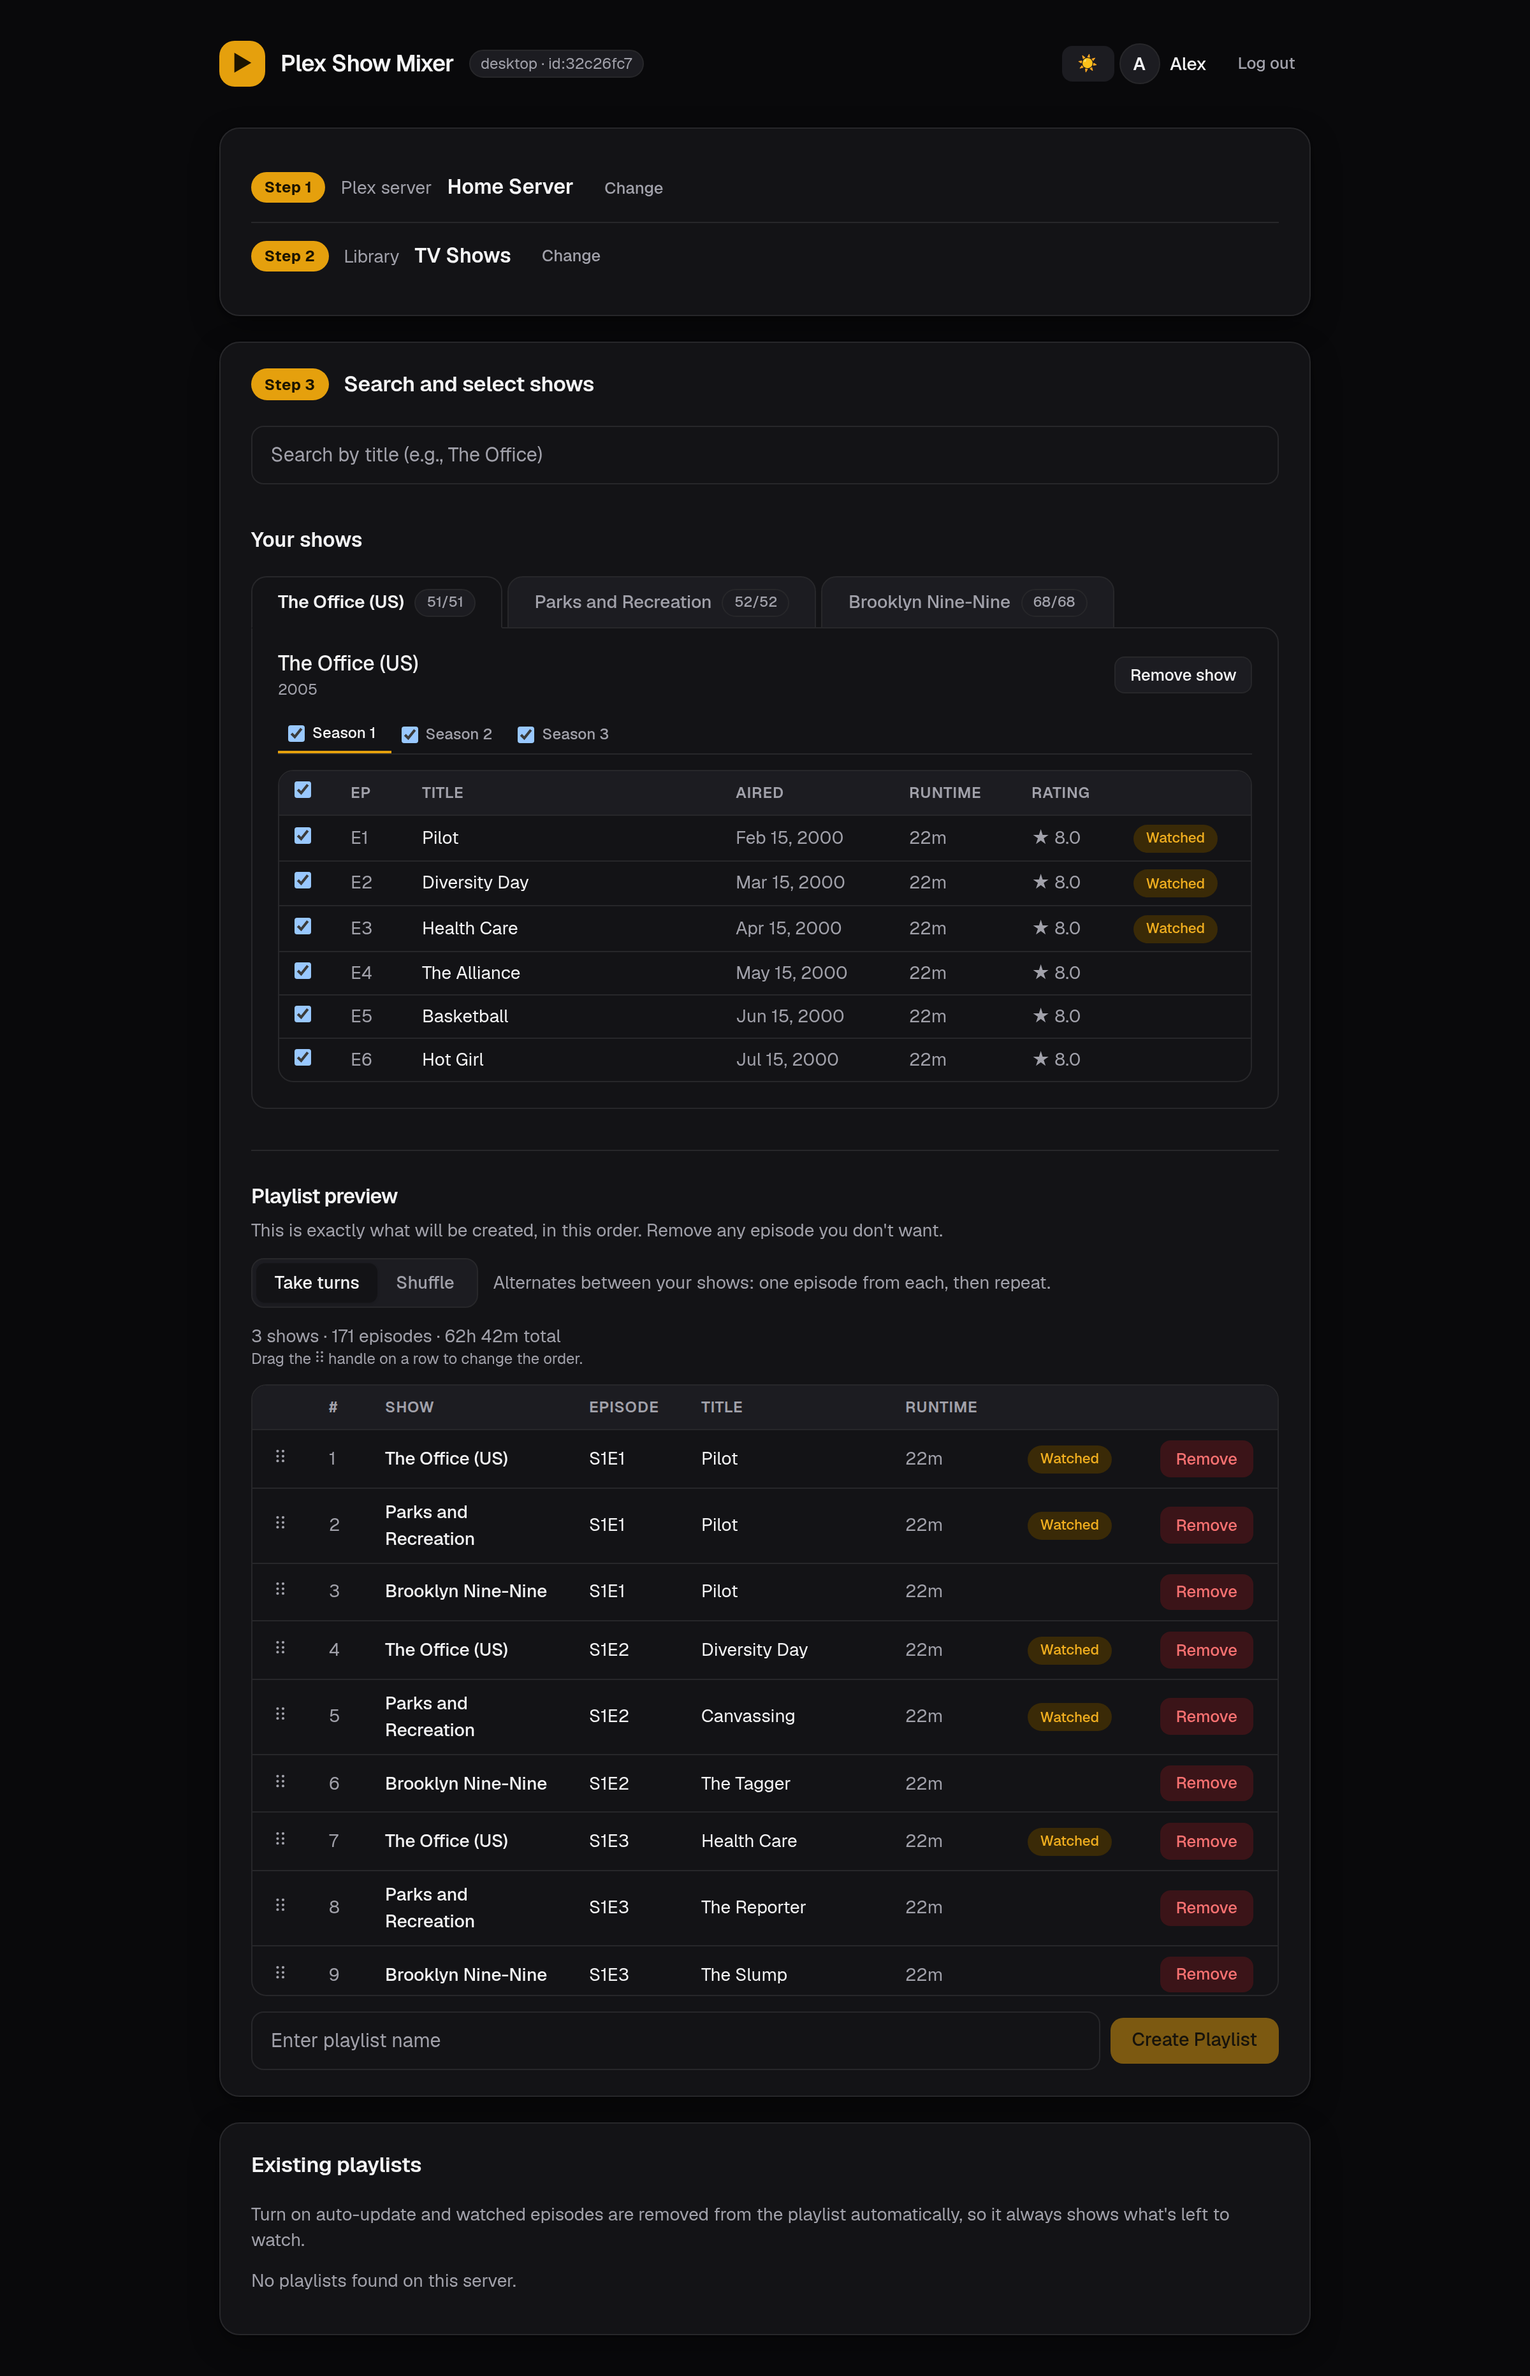
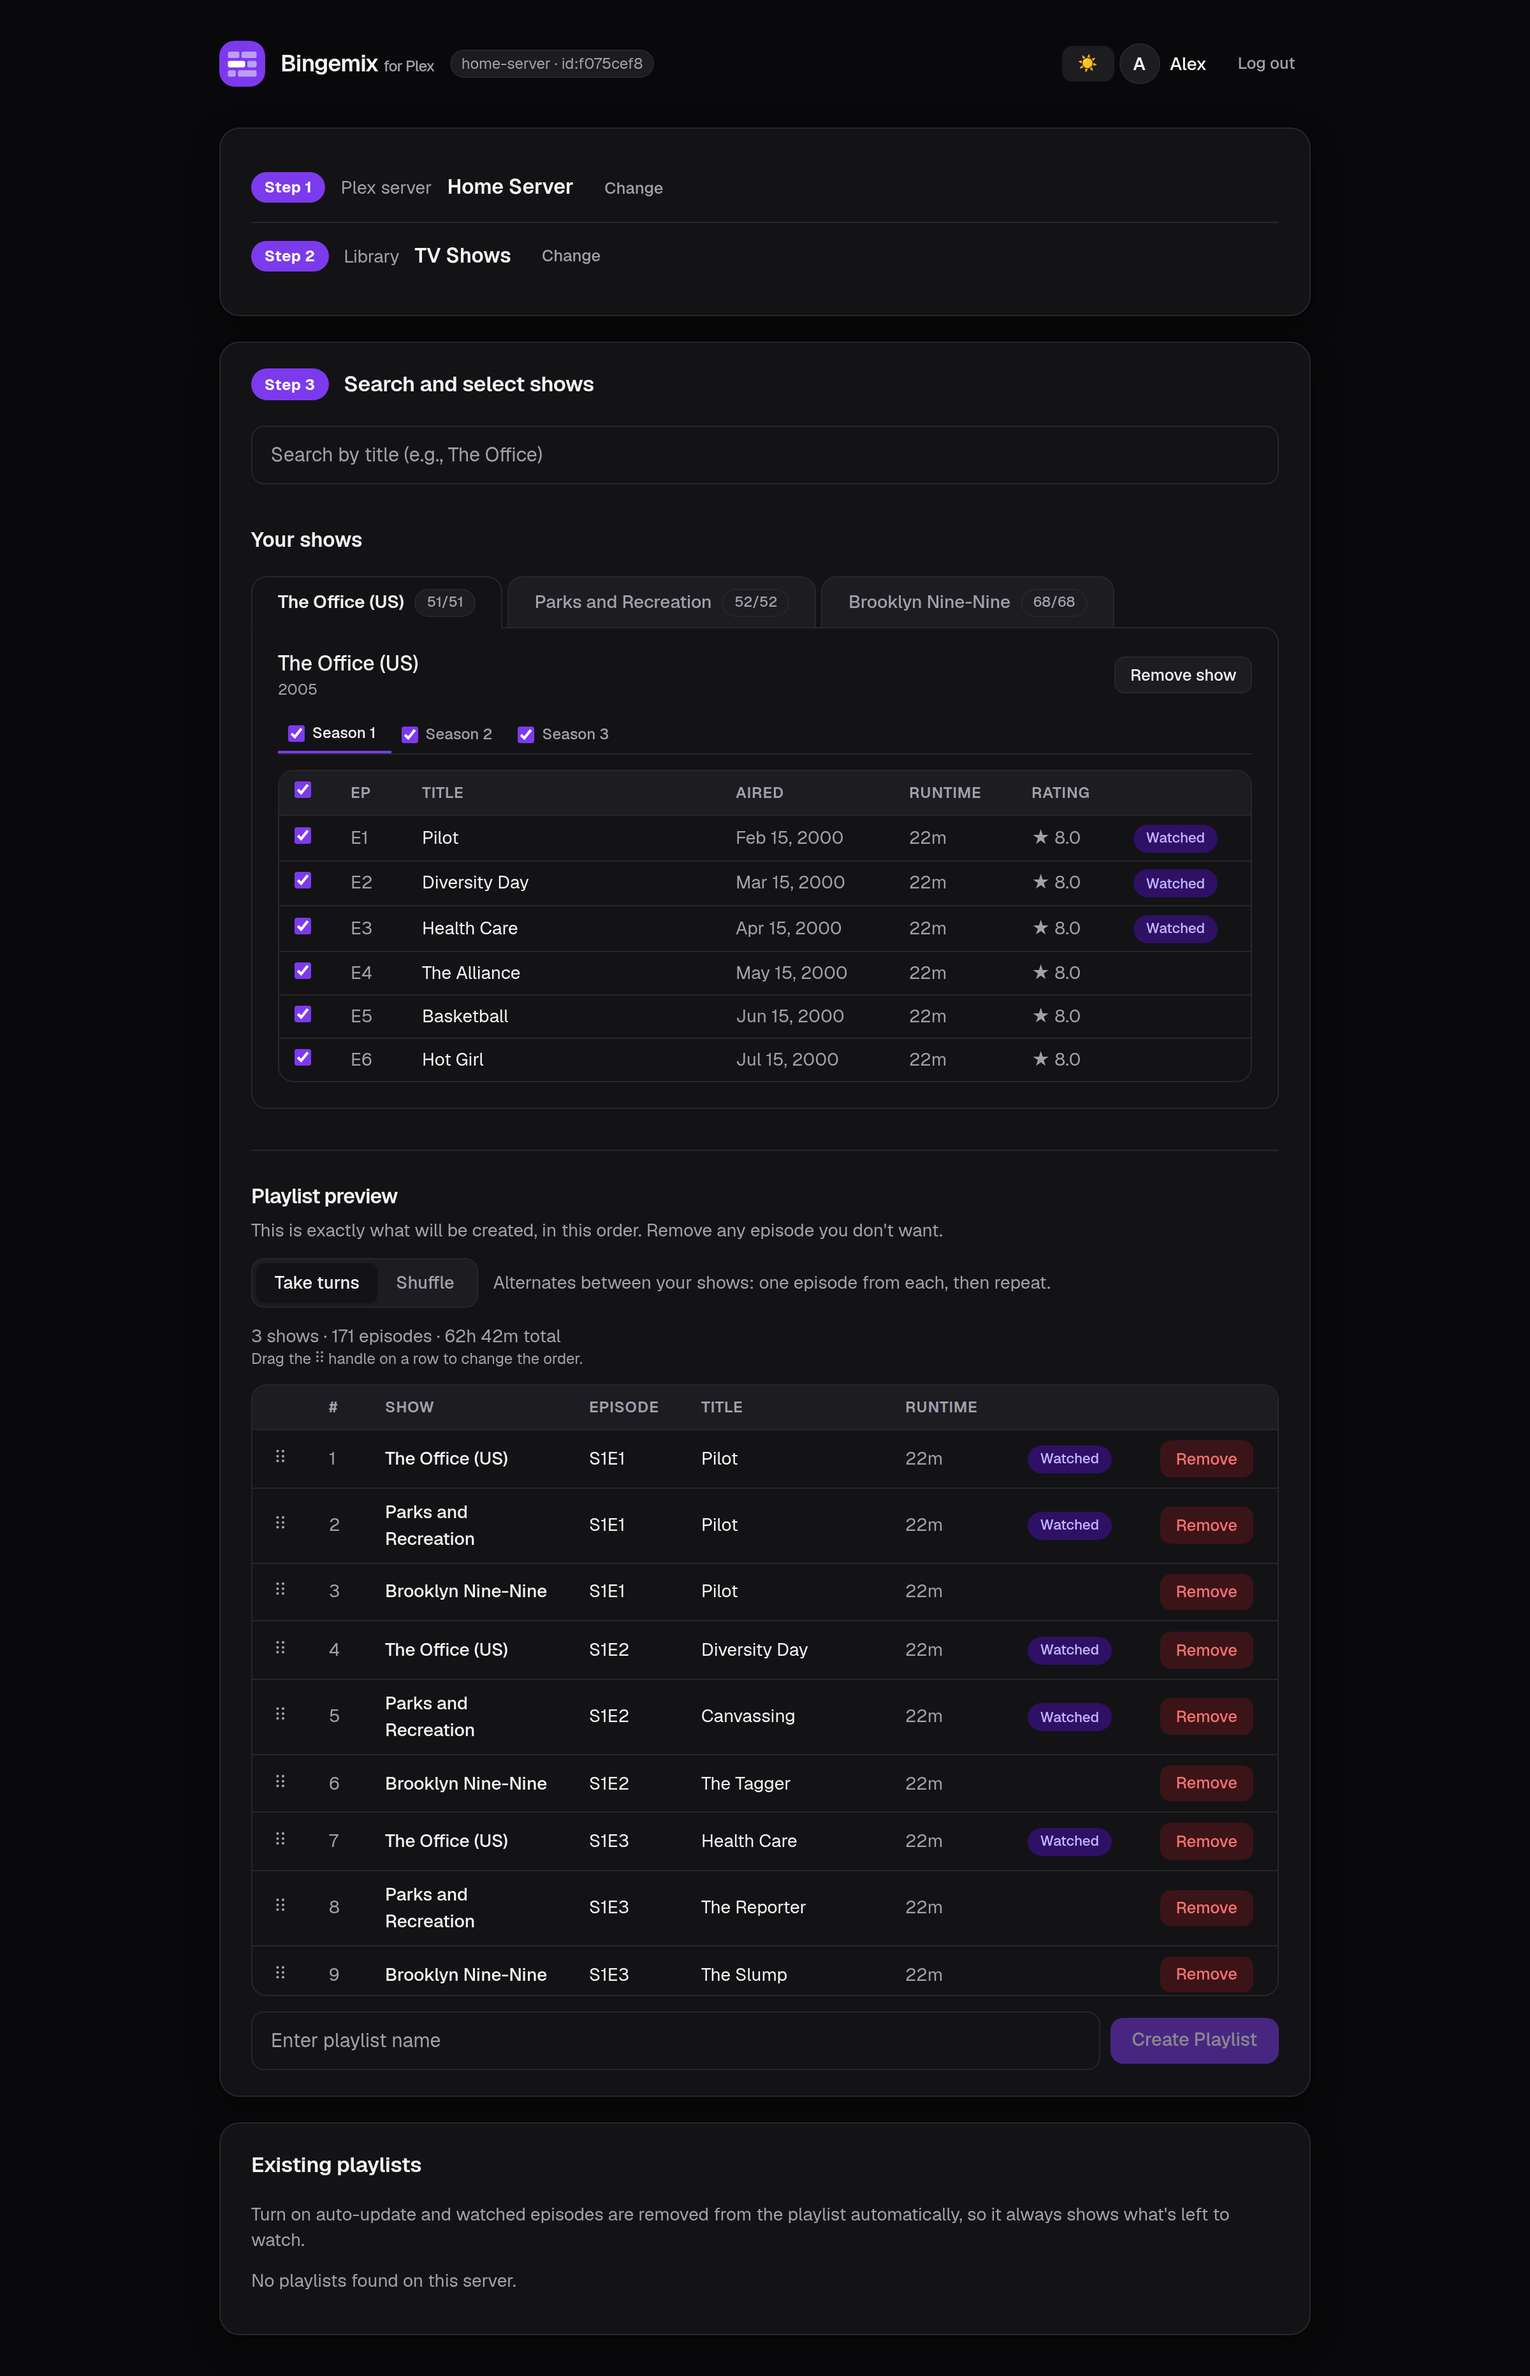
docs: rewrite README and website for Bingemix
- New name, headline ("Multiple shows. One playlist.") and subtitle
- Violet palette and program-grid icon on the website
- Regenerated screenshots from the renamed app
- Image and repo links point to gurjaps/bingemix and GurjapSingh/bingemix
- "Renamed from Plex Show Mixer" upgrade note
- Independent-project / Plex trademark notice

diff --git a/docs/index.html b/docs/index.html
@@ -3,11 +3,11 @@
 <head>
 <meta charset="utf-8">
 <meta name="viewport" content="width=device-width, initial-scale=1">
-<title>Plex Show Mixer: mixed-show Plex playlists that stay fresh</title>
-<meta name="description" content="Build Plex playlists that mix episodes from several TV shows, and keep them fresh: watched episodes are removed automatically. Self-hosted, runs in Docker.">
+<title>Bingemix for Plex: multiple shows, one playlist</title>
+<meta name="description" content="Interleave or shuffle your favourite shows into one auto-updating Plex playlist. Watched episodes drop out on their own. Self-hosted, runs in Docker.">
 <link rel="icon" href="icon.svg" type="image/svg+xml">
-<meta property="og:title" content="Plex Show Mixer">
-<meta property="og:description" content="Mix episodes from several TV shows into one Plex playlist. Watched episodes drop out automatically.">
+<meta property="og:title" content="Bingemix for Plex">
+<meta property="og:description" content="Multiple shows. One playlist. Interleave or shuffle your favourite shows into one auto-updating Plex playlist.">
 <meta property="og:image" content="screenshots/dashboard.png">
 <style>
 :root {
@@ -16,8 +16,9 @@
     --text: #17171a;
     --muted: #62626b;
     --border: #e2e2e7;
-    --accent: #e5a00d;
-    --accent-fg: #1c1400;
+    --accent: #7c3aed;
+    --accent-fg: #ffffff;
+    --accent-ink: #6d28d9;
     --code-bg: #14141a;
     --code-fg: #ececf1;
     --code-muted: #8b8b98;
@@ -25,6 +26,7 @@
 }
 @media (prefers-color-scheme: dark) {
     :root {
+        --accent-ink: #a78bfa;
         --bg: #0b0b0d;
         --card: #141417;
         --text: #f2f2f5;
@@ -51,6 +53,7 @@ a { color: inherit; }
 nav { display: flex; align-items: center; justify-content: space-between; padding: 20px 0; }
 .brand { display: flex; align-items: center; gap: 12px; font-weight: 700; text-decoration: none; }
 .brand img { width: 34px; height: 34px; }
+.brand .for { font-weight: 500; font-size: .8em; color: var(--muted); margin-left: -4px; }
 .nav-links { display: flex; gap: 22px; font-size: 15px; }
 .nav-links a { text-decoration: none; color: var(--muted); }
 .nav-links a:hover { color: var(--text); }
@@ -58,7 +61,7 @@ nav { display: flex; align-items: center; justify-content: space-between; paddin
 /* hero */
 .hero { text-align: center; padding: 56px 0 40px; }
 h1 { font-size: clamp(2.2rem, 6vw, 3.6rem); line-height: 1.1; letter-spacing: -.03em; margin: 0 0 18px; }
-h1 em { font-style: normal; color: var(--accent); }
+h1 em { font-style: normal; color: var(--accent-ink); }
 .lead { max-width: 640px; margin: 0 auto 30px; font-size: 1.2rem; color: var(--muted); }
 .btns { display: flex; gap: 12px; justify-content: center; flex-wrap: wrap; }
 .btn {
@@ -118,9 +121,8 @@ figcaption b { color: var(--text); }
 
 .tag {
     display: inline-block; font-size: .75rem; font-weight: 700; letter-spacing: .04em; text-transform: uppercase;
-    background: rgba(229,160,13,.15); color: #b27a00; padding: 2px 10px; border-radius: 999px; margin-left: 8px; vertical-align: middle;
+    background: rgba(124,58,237,.14); color: var(--accent-ink); padding: 2px 10px; border-radius: 999px; margin-left: 8px; vertical-align: middle;
 }
-@media (prefers-color-scheme: dark) { .tag { color: var(--accent); } }
 
 .code { position: relative; margin: 10px 0 0; }
 .code .label {
@@ -174,28 +176,29 @@ footer a { color: var(--text); }
 
 <div class="wrap">
     <nav>
-        <a class="brand" href="#top"><img src="icon.svg" alt="">Plex Show Mixer</a>
+        <a class="brand" href="#top"><img src="icon.svg" alt="">Bingemix <span class="for">for Plex</span></a>
         <div class="nav-links">
             <a href="#features">Features</a>
             <a href="#get-started">Get started</a>
-            <a href="https://github.com/GurjapSingh/plex-show-mixer">GitHub</a>
+            <a href="https://github.com/GurjapSingh/bingemix">GitHub</a>
         </div>
     </nav>
 
     <header class="hero" id="top">
-        <h1>Mix your shows.<br><em>Keep the playlist fresh.</em></h1>
+        <h1>Multiple shows.<br><em>One playlist.</em></h1>
         <p class="lead">
-            Build Plex playlists that mix episodes from several TV shows. Watched episodes
-            are removed automatically, so a playlist always shows what is left to watch.
+            Interleave or shuffle your favourite shows into one auto-updating playlist.
+            Take turns between shows, one episode each, or shuffle them. Watched
+            episodes drop out on their own.
         </p>
         <div class="btns">
             <a class="btn primary" href="#get-started">Get started</a>
-            <a class="btn" href="https://github.com/GurjapSingh/plex-show-mixer">View on GitHub</a>
+            <a class="btn" href="https://github.com/GurjapSingh/bingemix">View on GitHub</a>
         </div>
         <div class="shot">
             <picture>
                 <source media="(prefers-color-scheme: dark)" srcset="screenshots/dashboard-dark.png">
-                <img src="screenshots/dashboard.png" alt="Plex Show Mixer showing selected shows and a mixed playlist preview">
+                <img src="screenshots/dashboard.png" alt="Bingemix showing selected shows and a mixed playlist preview">
             </picture>
         </div>
     </header>
@@ -239,12 +242,12 @@ footer a { color: var(--text); }
             <p class="sub" style="margin-bottom:0">No files to write. Run it in the folder where you want the app's files kept; the <code class="i">data</code> and <code class="i">secrets</code> folders are created there for you.</p>
             <div class="code">
                 <div class="label"><span>terminal</span><button class="copy" type="button">Copy</button></div>
-<pre>docker run -d --name plex-show-mixer \
+<pre>docker run -d --name bingemix \
   -p 6767:6767 \
   -v ./data:/app/data \
   -v ./secrets:/app/secrets \
   --restart unless-stopped \
-  gurjaps/plex-show-mixer:latest</pre>
+  gurjaps/bingemix:latest</pre>
             </div>
         </div>
 
@@ -254,9 +257,9 @@ footer a { color: var(--text); }
             <div class="code">
                 <div class="label"><span>docker-compose.yml</span><button class="copy" type="button">Copy</button></div>
 <pre>services:
-  plex-show-mixer:
-    image: gurjaps/plex-show-mixer:latest
-    container_name: plex-show-mixer
+  bingemix:
+    image: gurjaps/bingemix:latest
+    container_name: bingemix
     ports:
       - "6767:6767"
     volumes:
@@ -314,13 +317,13 @@ footer a { color: var(--text); }
 <pre>mkdir -p keys
 openssl rand -base64 32 &gt; keys/token_key
 
-docker run -d --name plex-show-mixer \
+docker run -d --name bingemix \
   -p 6767:6767 \
   -v ./data:/app/data \
   -v ./keys/token_key:/run/secrets/token_key:ro \
   -e TOKEN_ENCRYPTION_KEY_FILE=/run/secrets/token_key \
   --restart unless-stopped \
-  gurjaps/plex-show-mixer:latest</pre>
+  gurjaps/bingemix:latest</pre>
         </div>
         <p class="sub" style="margin-top:14px">Create the key file <i>before</i> starting: if it is missing, Docker makes an empty folder in its place and the app won't start. You can also pass the key itself as <code class="i">TOKEN_ENCRYPTION_KEY</code>.</p>
     </div>
@@ -349,11 +352,11 @@ docker run -d --name plex-show-mixer \
 
 <footer>
     <div class="wrap">
-        <p>Plex Show Mixer is an independent project and is not affiliated with Plex Inc.</p>
+        <p>Bingemix is an independent project. It is not affiliated with, endorsed by, or sponsored by Plex Inc. Plex is a trademark of Plex, Inc.</p>
         <p>
-            <a href="https://github.com/GurjapSingh/plex-show-mixer">GitHub</a> ·
-            <a href="https://hub.docker.com/r/gurjaps/plex-show-mixer">Docker Hub</a> ·
-            <a href="https://github.com/GurjapSingh/plex-show-mixer/issues">Report an issue</a>
+            <a href="https://github.com/GurjapSingh/bingemix">GitHub</a> ·
+            <a href="https://hub.docker.com/r/gurjaps/bingemix">Docker Hub</a> ·
+            <a href="https://github.com/GurjapSingh/bingemix/issues">Report an issue</a>
         </p>
     </div>
 </footer>

diff --git a/README.md b/README.md
@@ -1,20 +1,22 @@
 <div align="center">
 
-<img src="src/app/icon.svg" alt="" width="84" height="84">
+<img src="src/app/icon.svg" alt="Bingemix" width="84" height="84">
 
-# Plex Show Mixer
+# Bingemix <sub>for Plex</sub>
 
-**Build Plex playlists that mix episodes from several TV shows, and keep them
-fresh.** Watched episodes are removed automatically, so a playlist always shows
-what is left to watch.
+**Multiple shows. One playlist.**
 
-[![Docker Image Version](https://img.shields.io/docker/v/gurjaps/plex-show-mixer?sort=semver&logo=docker&label=docker&color=e5a00d)](https://hub.docker.com/r/gurjaps/plex-show-mixer)
-[![Docker Pulls](https://img.shields.io/docker/pulls/gurjaps/plex-show-mixer?logo=docker&color=e5a00d)](https://hub.docker.com/r/gurjaps/plex-show-mixer)
+Interleave or shuffle your favourite shows into one auto-updating playlist.
+Take turns between shows, one episode each, or shuffle them. Watched episodes
+drop out on their own.
+
+[![Docker Image Version](https://img.shields.io/docker/v/gurjaps/bingemix?sort=semver&logo=docker&label=docker&color=7c3aed)](https://hub.docker.com/r/gurjaps/bingemix)
+[![Docker Pulls](https://img.shields.io/docker/pulls/gurjaps/bingemix?logo=docker&color=7c3aed)](https://hub.docker.com/r/gurjaps/bingemix)
 
 <a href="docs/screenshots/dashboard.png">
   <picture>
     <source media="(prefers-color-scheme: dark)" srcset="docs/screenshots/dashboard-dark.png">
-    <img src="docs/screenshots/dashboard.png" alt="Plex Show Mixer: pick shows, preview the mixed playlist, create it" width="760">
+    <img src="docs/screenshots/dashboard.png" alt="Bingemix: pick shows, preview the mixed playlist, create it" width="760">
   </picture>
 </a>
 
@@ -69,12 +71,12 @@ Light and dark themes are built in.
 ## Run with Docker
 
 ```bash
-docker run -d --name plex-show-mixer \
+docker run -d --name bingemix \
   -p 6767:6767 \
   -v ./data:/app/data \
   -v ./secrets:/app/secrets \
   --restart unless-stopped \
-  gurjaps/plex-show-mixer:latest
+  gurjaps/bingemix:latest
 ```
 
 Then open <http://localhost:6767>. The `data/` and `secrets/` folders are
@@ -91,9 +93,9 @@ Save this as `docker-compose.yml` anywhere; it just pulls the published image:
 
 ```yaml
 services:
-  plex-show-mixer:
-    image: gurjaps/plex-show-mixer:latest
-    container_name: plex-show-mixer
+  bingemix:
+    image: gurjaps/bingemix:latest
+    container_name: bingemix
     ports:
       - "6767:6767"
     volumes:
@@ -153,8 +155,19 @@ stored tokens cannot be read and people just sign in again.
   on a single server and can only contain that server's items.
 - If you run more than one copy of the app against the same Plex server, the
   app leaves a short note in the playlist description in Plex
-  (`Auto-updated by Plex Show Mixer (...)`) so other copies can warn you that a
-  playlist is already being updated elsewhere.
+  (`Auto-updated by Bingemix (...)`) so other copies can warn you that a
+  playlist is already being updated elsewhere. Copies from before the rename
+  wrote `Auto-updated by Plex Show Mixer (...)`; Bingemix still understands
+  those, but older releases do not understand the new wording, so upgrade every
+  copy that points at the same server together.
+
+## Renamed from Plex Show Mixer
+
+Bingemix was called Plex Show Mixer until version 1.2.3. The Docker image is now
+`gurjaps/bingemix`. To move over, stop the old container and start the new one
+with the **same** `data/` folder (and `secrets/` if you have one; older installs
+keep their key inside `data/`). Your playlists, auto-update settings and
+encryption key carry over, and nobody has to sign in again.
 
 ## Development
 
@@ -183,3 +196,8 @@ unreachable connections. Each test file uses its own temporary data folder.
 
 Built with [Next.js](https://nextjs.org), React, Tailwind CSS and SQLite
 (`better-sqlite3`).
+
+---
+
+Bingemix is an independent project. It is not affiliated with, endorsed by, or
+sponsored by Plex Inc. Plex is a trademark of Plex, Inc.
